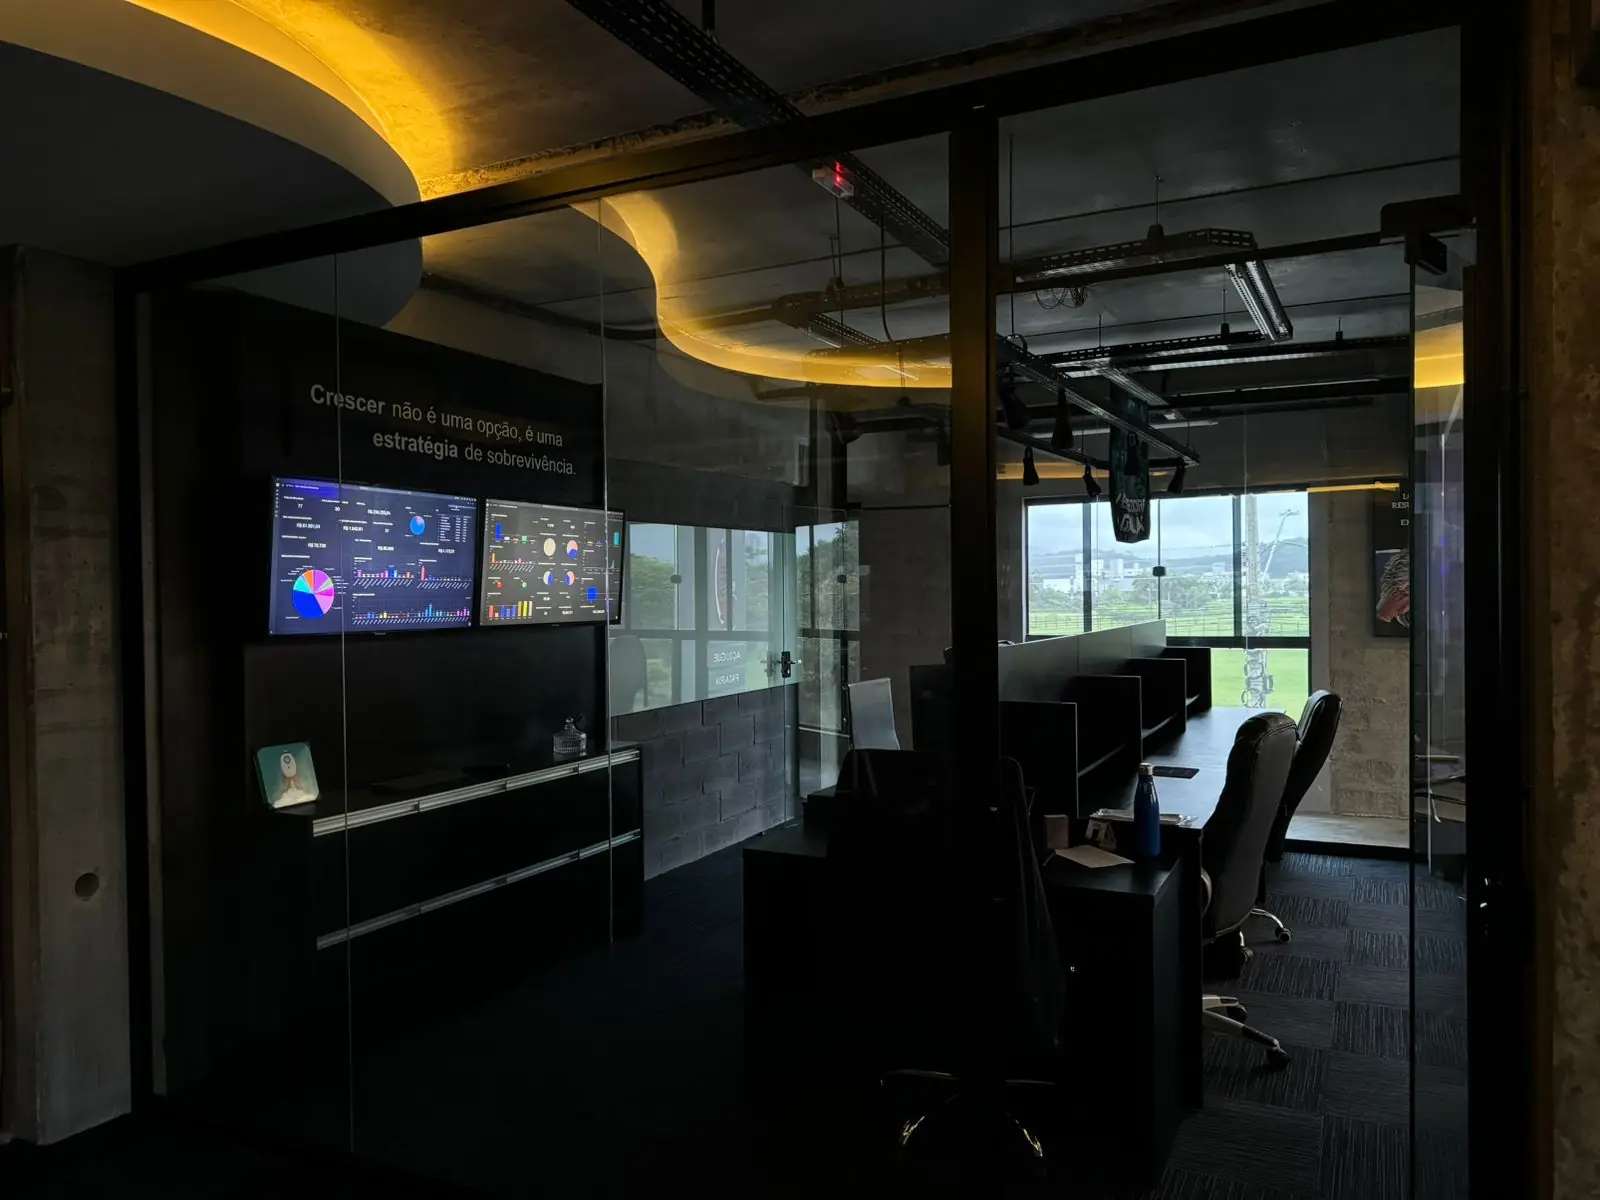
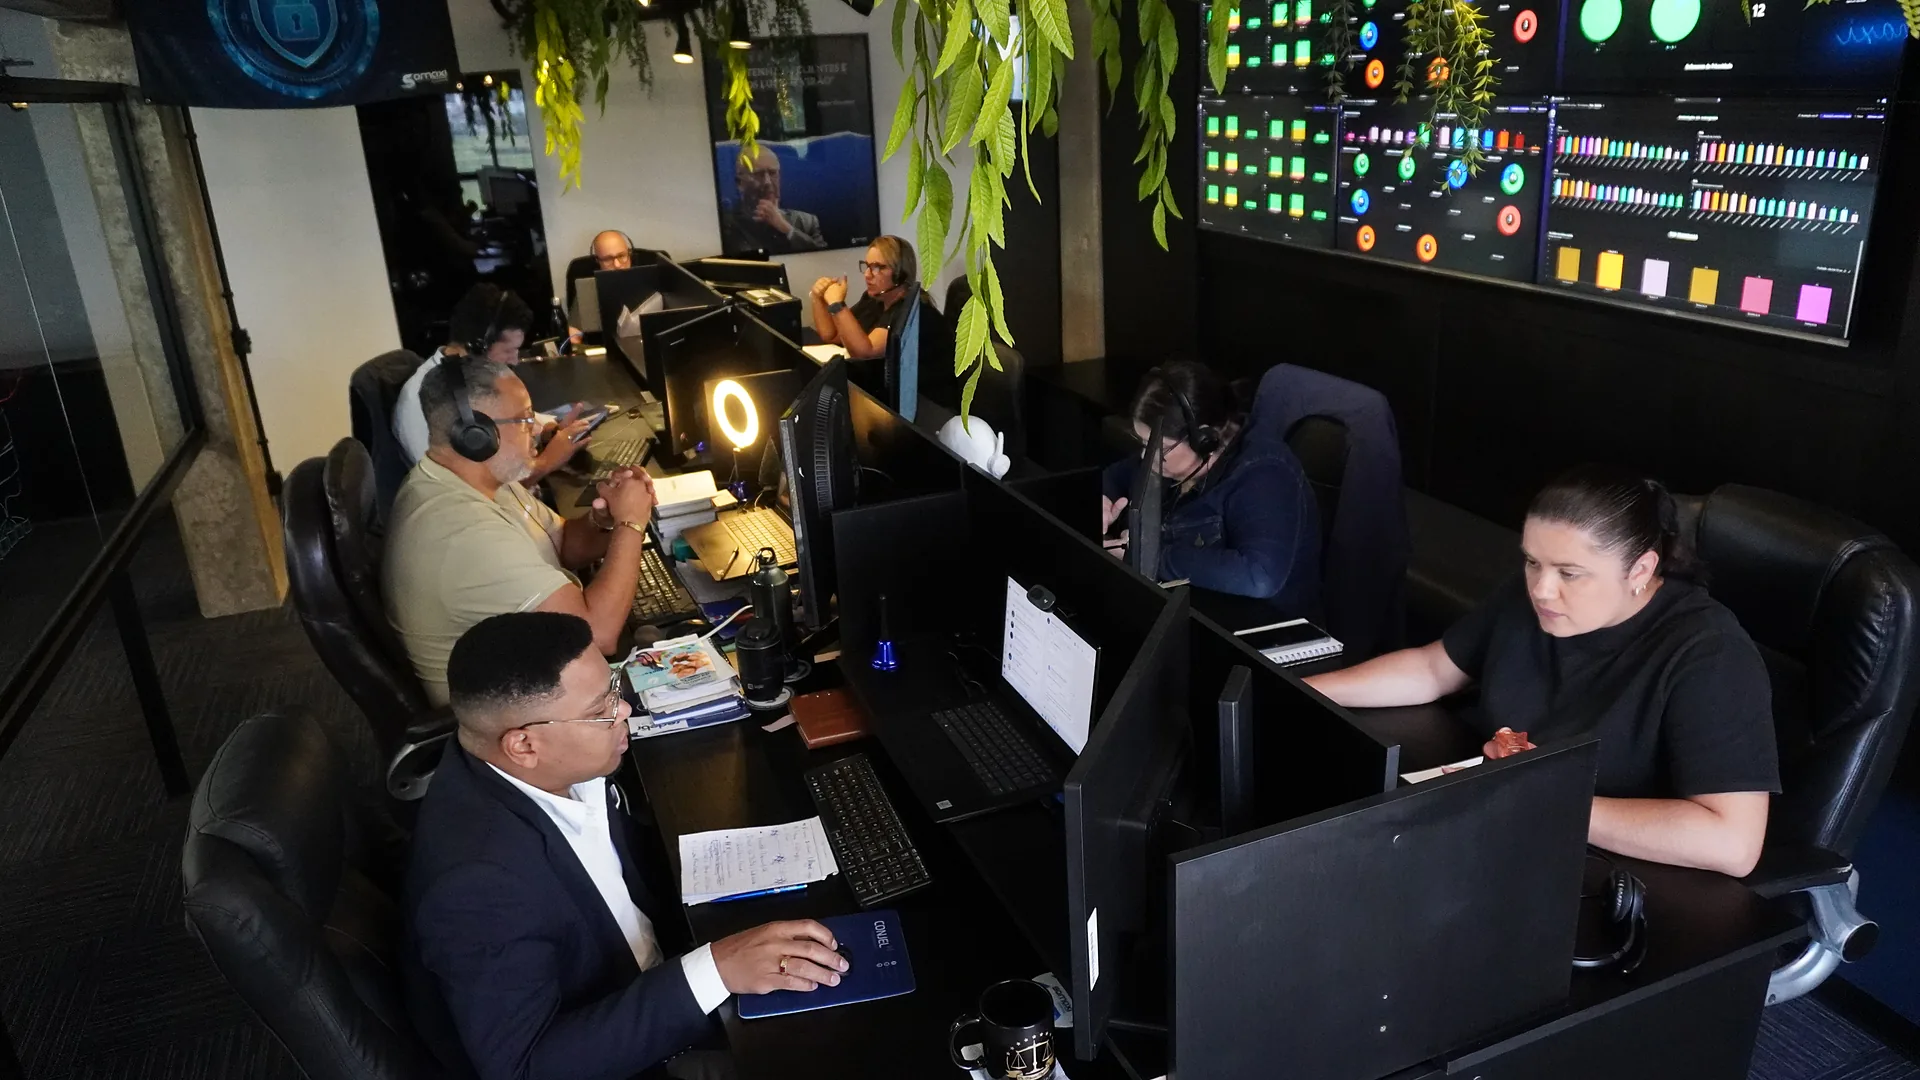
LP resposta a incidentes: fotos do escritorio novo e copy dos estados
Substitui as fotos do escritorio antigo pelas do novo em hero (desktop e
mobile), atendimento, equipe e estrutura propria. Hero usa a sala de
operacao com o painel de dados a direita, onde o gradiente clareia.
Atendimento passou para 4:5 porque o slot principal do grid e alto e o
16:9 cortava demais - width/height atualizados no HTML.

Copy do bloco de numeros: "17 unidades da federacao com projetos" ->
"+17 estados atendidos no Brasil" (pedido da Pricila no check-in de 21/10).

Adiciona .gitignore, que nao existia. Ignora o acervo de originais de
camera em static/img/escritorio/ (~33MB), que nao e servido pelo site -
o que vai para o repo sao os derivados em static/img/INCIDENTE/.

Renderizacao conferida em desktop e mobile.

Claude-Session: https://claude.ai/code/session_015K5imFU27VrBRUTvfVbhp9

diff --git a/templates/resposta-a-incidentes.html b/templates/resposta-a-incidentes.html
@@ -497,7 +497,7 @@
         <div class="sb-item"><svg viewBox="0 0 24 24" fill="none" stroke="currentColor" stroke-width="1.8" stroke-linecap="round" stroke-linejoin="round" aria-hidden="true"><path d="M3 21h18"/><path d="M5 21V7l7-4 7 4v14"/><path d="M9 9h1M14 9h1M9 13h1M14 13h1M9 17h1M14 17h1"/></svg><div><strong>+<span class="count" data-count="300">300</span></strong><span>empresas adequadas à LGPD</span></div></div>
         <div class="sb-item"><svg viewBox="0 0 24 24" fill="none" stroke="currentColor" stroke-width="1.8" stroke-linecap="round" stroke-linejoin="round" aria-hidden="true"><path d="m12 3 2.8 5.7 6.2.9-4.5 4.4 1.1 6.2L12 17.3 6.4 20.2l1.1-6.2L3 9.6l6.2-.9z"/></svg><div><strong>4,9/5</strong><span>avaliação média dos clientes</span></div></div>
         <div class="sb-item"><svg viewBox="0 0 24 24" fill="none" stroke="currentColor" stroke-width="1.8" stroke-linecap="round" stroke-linejoin="round" aria-hidden="true"><rect x="3" y="3" width="7" height="7" rx="1"/><rect x="14" y="3" width="7" height="7" rx="1"/><rect x="3" y="14" width="7" height="7" rx="1"/><rect x="14" y="14" width="7" height="7" rx="1"/></svg><div><strong>+<span class="count" data-count="12">12</span></strong><span>setores de atuação</span></div></div>
-        <div class="sb-item"><svg viewBox="0 0 24 24" fill="none" stroke="currentColor" stroke-width="1.8" stroke-linecap="round" stroke-linejoin="round" aria-hidden="true"><path d="M12 21s-7-5.6-7-11a7 7 0 0 1 14 0c0 5.4-7 11-7 11z"/><circle cx="12" cy="10" r="2.5"/></svg><div><strong><span class="count" data-count="17">17</span></strong><span>unidades da federação com projetos</span></div></div>
+        <div class="sb-item"><svg viewBox="0 0 24 24" fill="none" stroke="currentColor" stroke-width="1.8" stroke-linecap="round" stroke-linejoin="round" aria-hidden="true"><path d="M12 21s-7-5.6-7-11a7 7 0 0 1 14 0c0 5.4-7 11-7 11z"/><circle cx="12" cy="10" r="2.5"/></svg><div><strong>+<span class="count" data-count="17">17</span></strong><span>estados atendidos no Brasil</span></div></div>
       </div>
     </div>
 
@@ -653,7 +653,7 @@
             </ul>
           </div>
           <div class="team-photos reveal">
-            <figure class="tp tp--main"><img src="/static/img/INCIDENTE/atendimento.webp" alt="Equipe SOMAXI em atendimento nas estações de trabalho" loading="lazy" width="1100" height="619"><figcaption>Atendimento</figcaption></figure>
+            <figure class="tp tp--main"><img src="/static/img/INCIDENTE/atendimento.webp" alt="Equipe SOMAXI em atendimento nas estações de trabalho" loading="lazy" width="1100" height="1375"><figcaption>Atendimento</figcaption></figure>
             <figure class="tp"><img src="/static/img/INCIDENTE/equipe.webp" alt="Equipe SOMAXI" loading="lazy" width="1100" height="733"><figcaption>Equipe</figcaption></figure>
             <figure class="tp"><img src="/static/img/INCIDENTE/espaco-privacidade.webp" alt="Espaço SOMAXI com o letreiro Proteção e Privacidade" loading="lazy" width="1100" height="825"><figcaption>Estrutura própria</figcaption></figure>
           </div>
